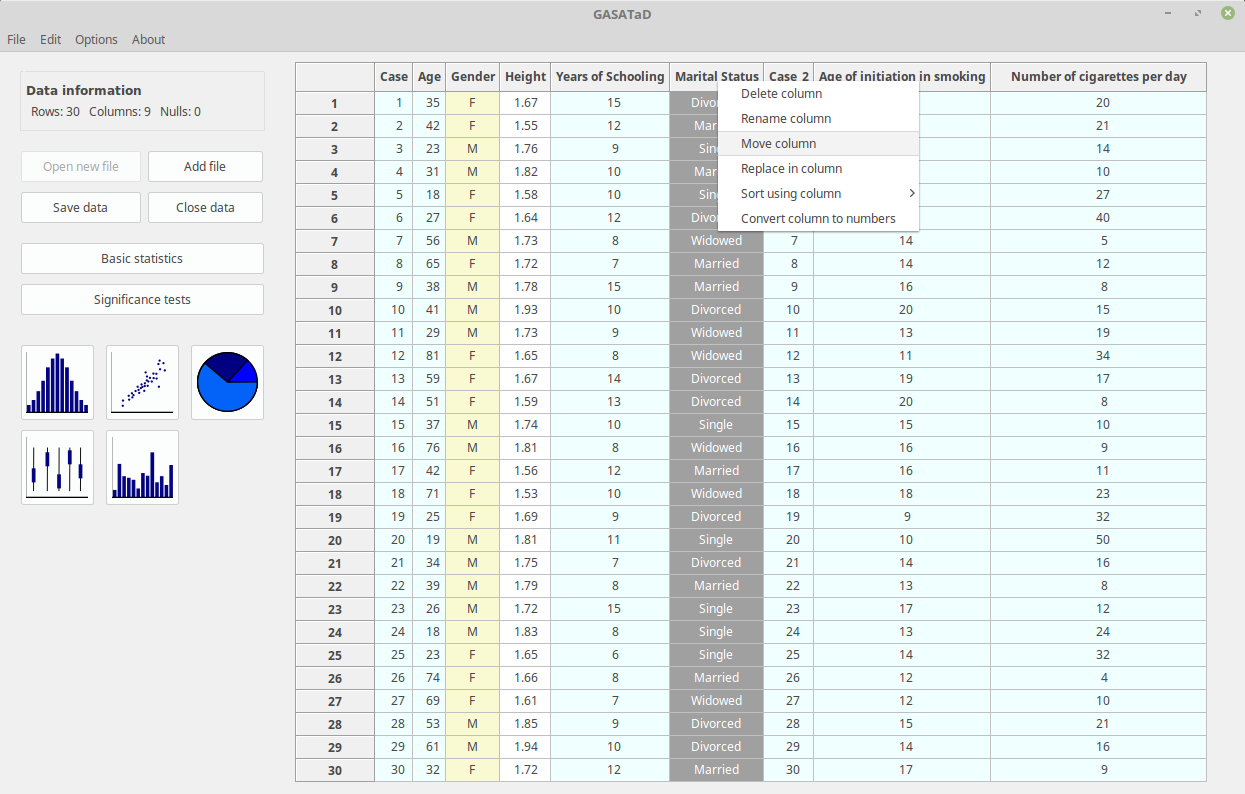
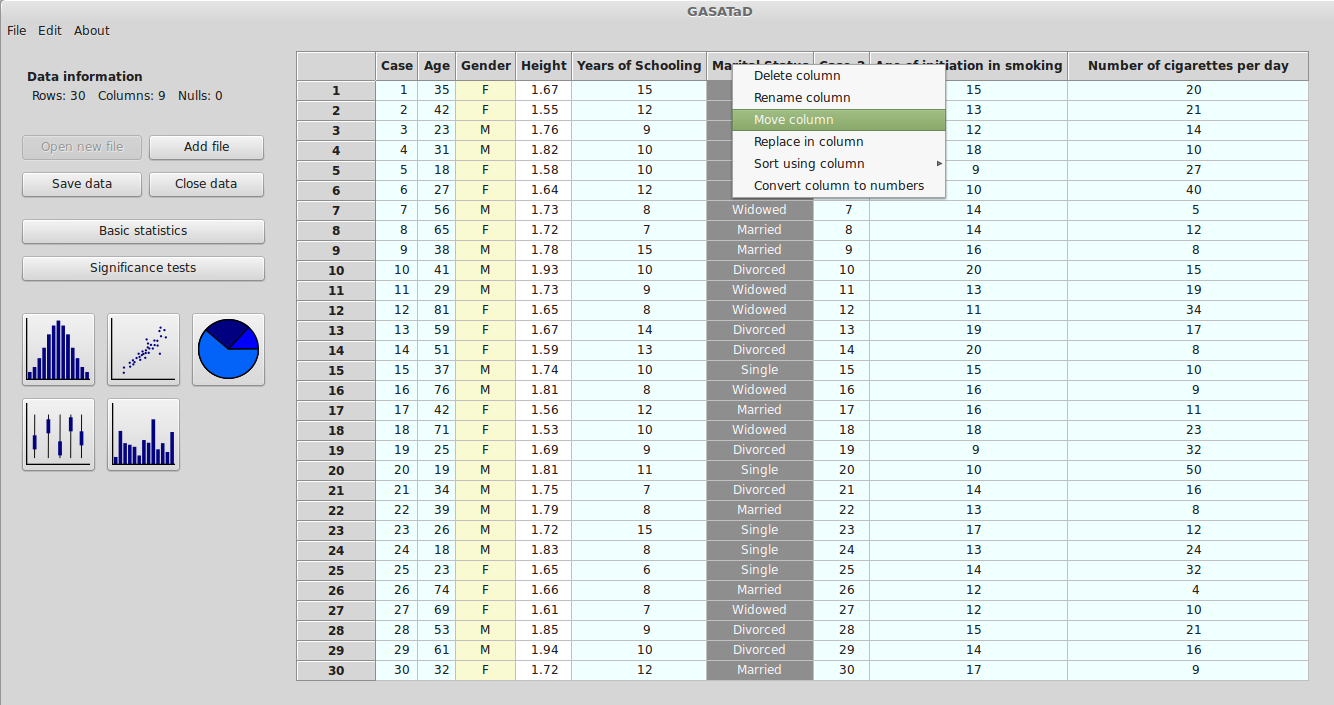
Five-minutes tour images updated to v1.6

diff --git a/docs/fiveminutestour.html b/docs/fiveminutestour.html
@@ -66,7 +66,7 @@
 							<img src="./fiveimgs/MainWindow.png" alt="" style="width:100%"/>
 					</div>
 					<br/>
-					<p>On the right side of the window, the data will be displayed on a table when files are opened. Initially, columns will be labeled using letters and rows will be labeled with numbers. Numerical values will appear in white or light blue cells, depending if they belong to float or integer columns, respectively. Textual data will be presented in yellow background.</p>
+					<p>On the right side of the window, the data is displayed on a table after files have been opened. Initially, columns are labeled using letters and rows are labeled with numbers. Numerical values appear in white or light blue cells, depending if they belong to float or integer columns, respectively. Textual data is presented in yellow background.</p>
 					<p>On the left panel, the upper area shows information about the data (number of rows, columns and null values). Just under this area, buttons are available to manage data and files, or to perform basic statistical analyses or significance tests. Below, plotting functionalities are included.</p>
 
 					<br/>
